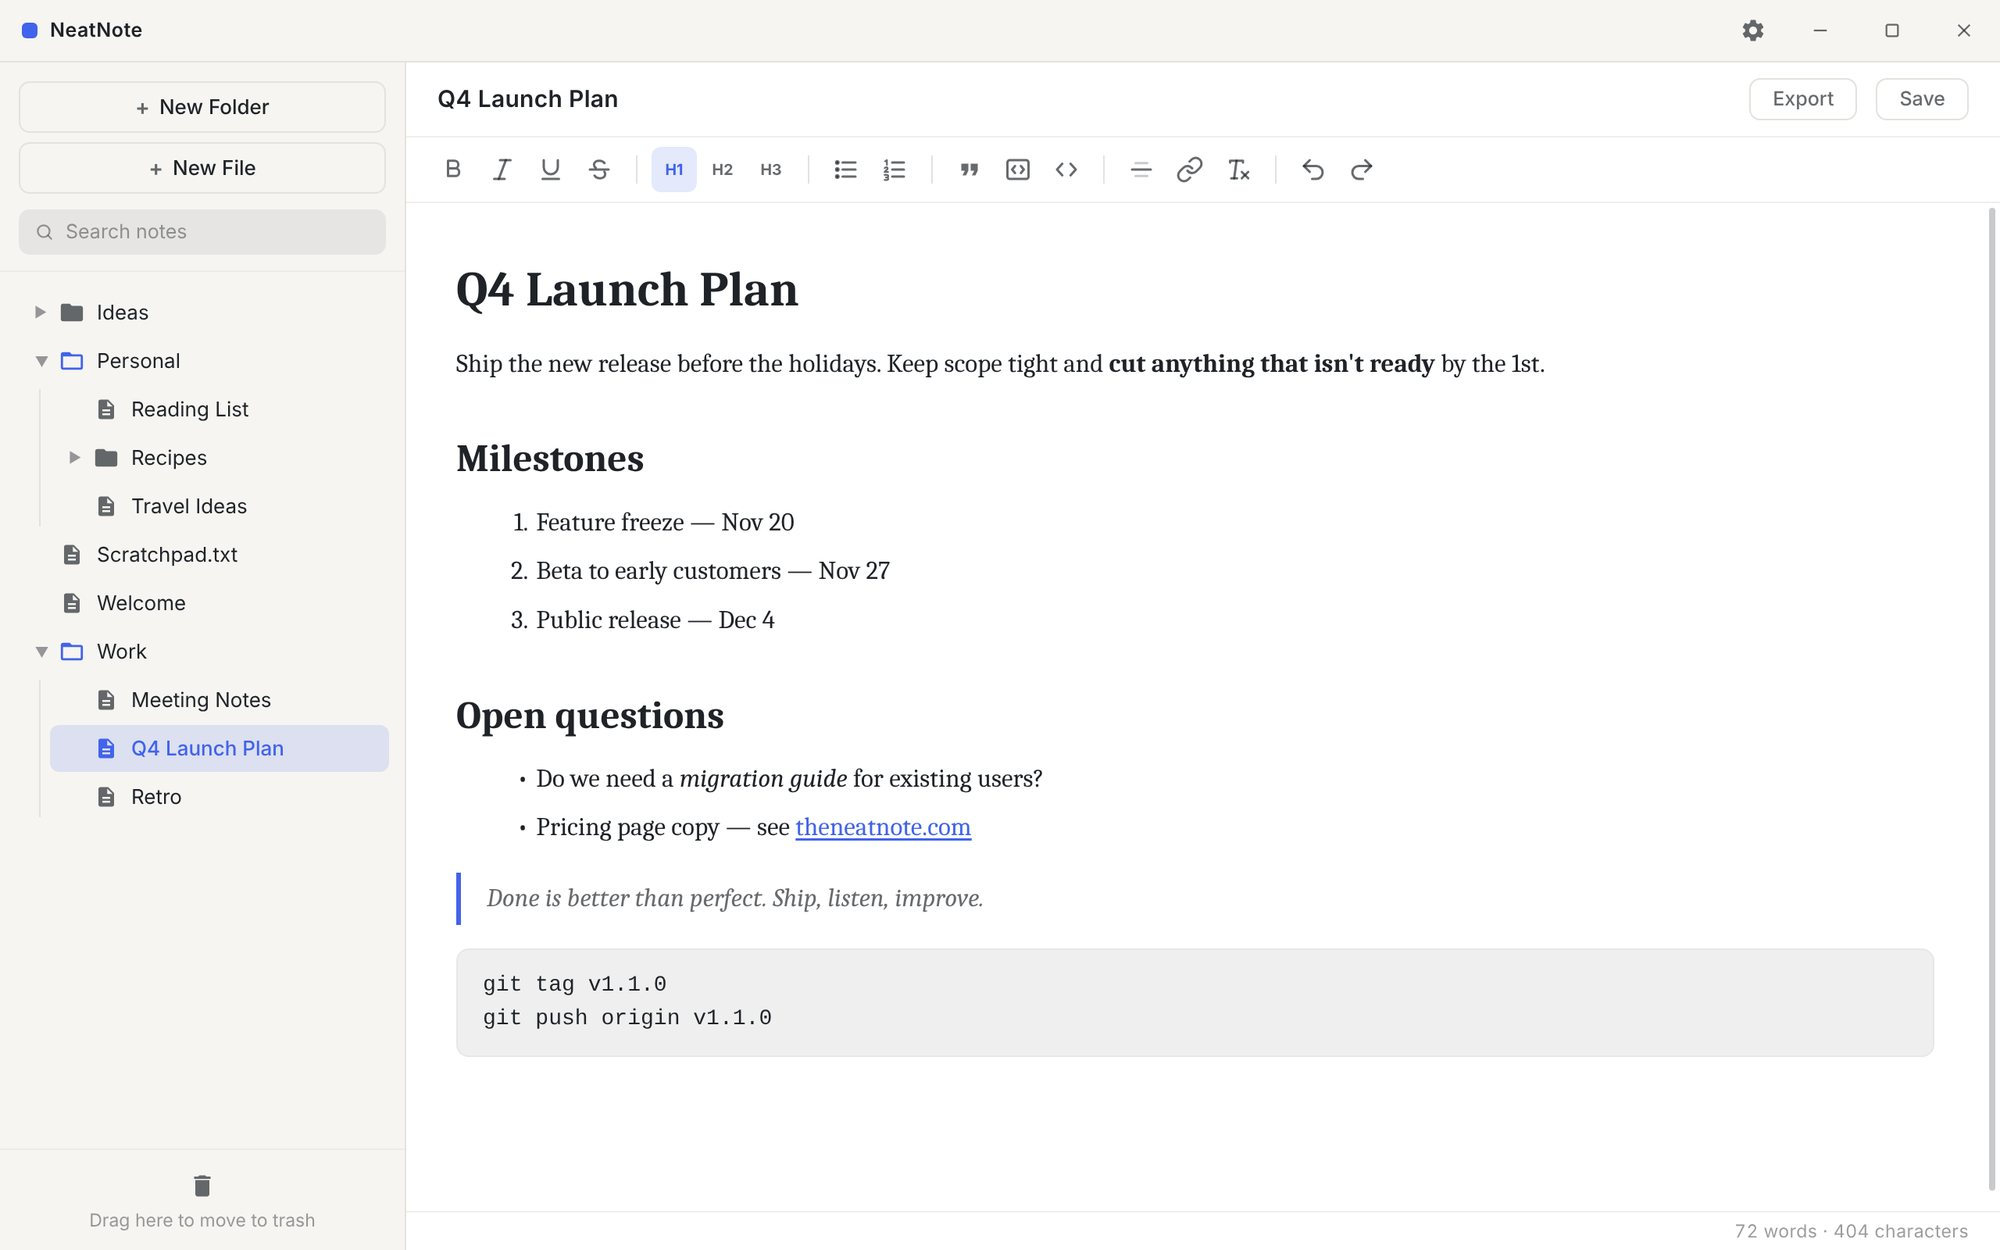
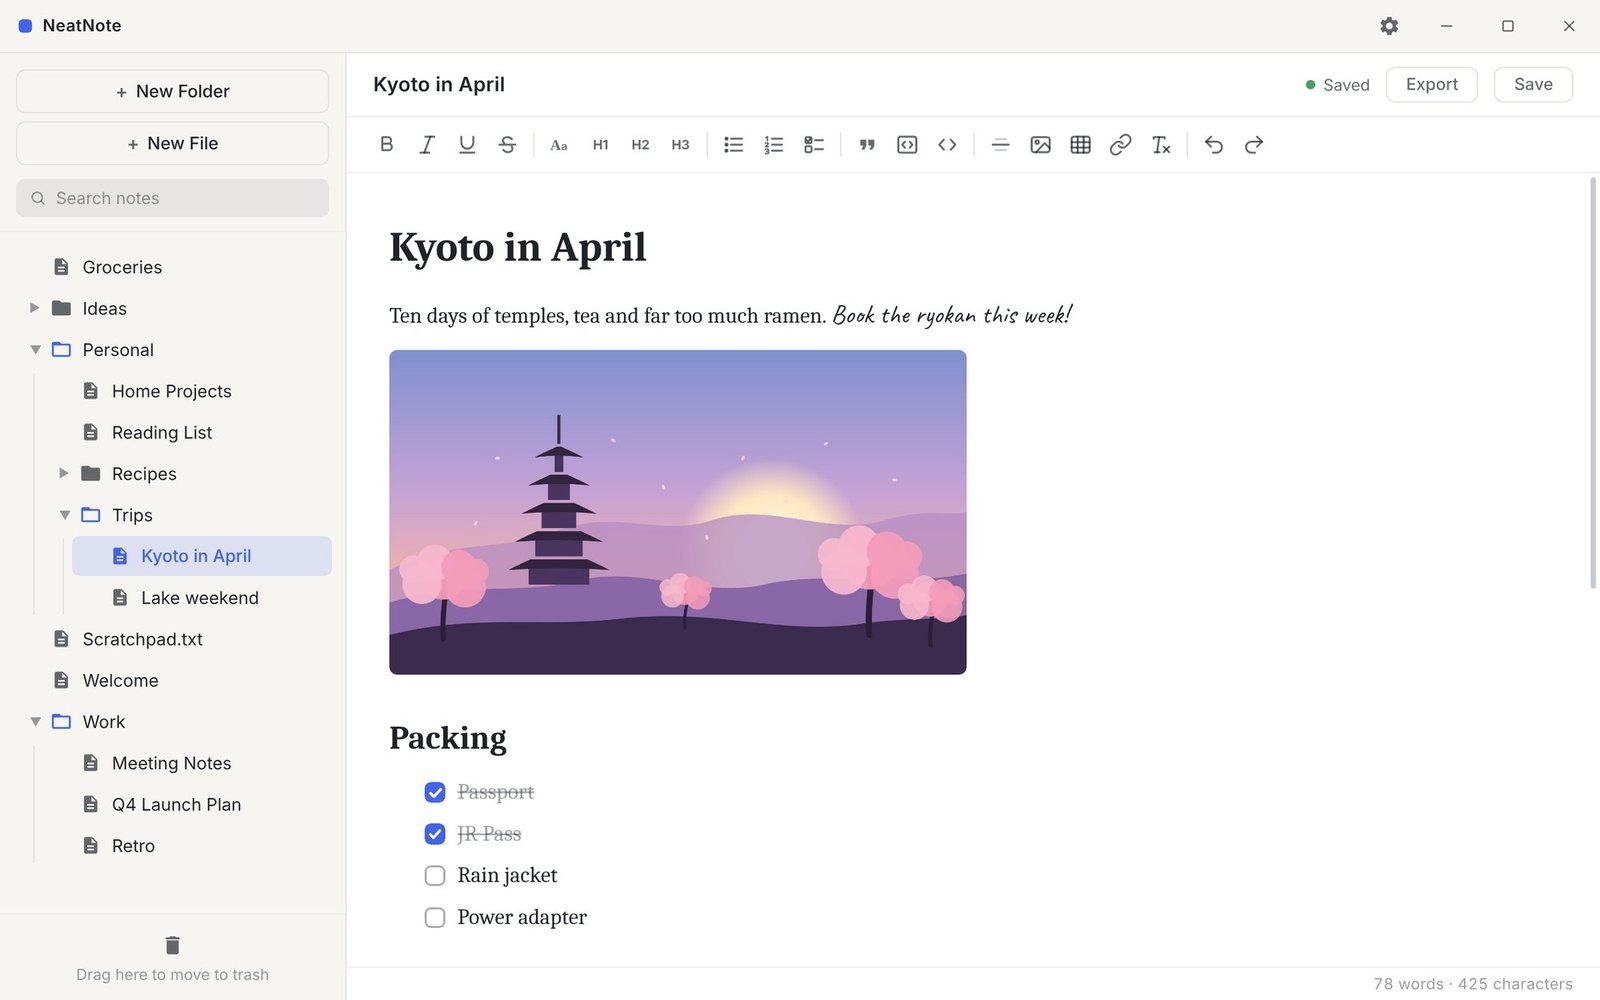
README: new screenshots — six features in six themes

diff --git a/README.md b/README.md
@@ -14,7 +14,7 @@
 NeatNote sits between a bare text editor and an all-in-one workspace: folders, clean formatting and full-text search, without accounts, sync services or subscriptions. Your notes are ordinary files on your own computer.
 
 <p align="center">
-  <img src="docs/screenshots/editor-light.jpg" alt="NeatNote showing a formatted note with headings, lists and a code block, with nested folders in the sidebar" width="900">
+  <img src="docs/screenshots/editor-light.jpg" alt="NeatNote showing a trip plan with a picture, a handwritten-style note and a packing checklist, with nested folders in the sidebar" width="900">
 </p>
 
 ## Features
@@ -37,16 +37,16 @@ NeatNote sits between a bare text editor and an all-in-one workspace: folders, c
 
 <table>
   <tr>
-    <td width="50%"><img src="docs/screenshots/search.jpg" alt="Full-text search listing matching notes with the matching words highlighted"><p align="center"><sub>Search inside every note</sub></p></td>
-    <td width="50%"><img src="docs/screenshots/organize.jpg" alt="Nested folders in the sidebar with the right-click menu open"><p align="center"><sub>Nested folders and right-click menus</sub></p></td>
+    <td width="50%"><img src="docs/screenshots/formatting.jpg" alt="A launch plan with headings, bold text, a numbered list, inline code, a code block and a quote"><p align="center"><sub>Headings, lists and code blocks · Dark theme</sub></p></td>
+    <td width="50%"><img src="docs/screenshots/pictures.jpg" alt="A weekend trip note with a picture of a lake and a packing checklist"><p align="center"><sub>Pictures and checklists · Paper theme</sub></p></td>
   </tr>
   <tr>
-    <td width="50%"><img src="docs/screenshots/editor-dark.jpg" alt="NeatNote in the Dark theme"><p align="center"><sub>Dark</sub></p></td>
-    <td width="50%"><img src="docs/screenshots/editor-paper.jpg" alt="NeatNote in the Paper theme"><p align="center"><sub>Paper</sub></p></td>
+    <td width="50%"><img src="docs/screenshots/tables.jpg" alt="A reading list with a quote and a table of books, authors and status"><p align="center"><sub>Tables and quotes · Sand theme</sub></p></td>
+    <td width="50%"><img src="docs/screenshots/search.jpg" alt="Full-text search for April listing three notes with the matching words highlighted"><p align="center"><sub>Search inside every note · Ocean theme</sub></p></td>
   </tr>
   <tr>
-    <td width="50%"><img src="docs/screenshots/editor-moss.jpg" alt="NeatNote in the Moss theme"><p align="center"><sub>Moss</sub></p></td>
-    <td width="50%"><img src="docs/screenshots/editor-dusk.jpg" alt="NeatNote in the Dusk theme"><p align="center"><sub>Dusk</sub></p></td>
+    <td width="50%"><img src="docs/screenshots/organize.jpg" alt="Nested folders in the sidebar with the right-click menu open on a folder"><p align="center"><sub>Nested folders and right-click menus · Slate theme</sub></p></td>
+    <td width="50%"><img src="docs/screenshots/fonts.jpg" alt="A gift ideas note in several fonts and sizes, with the font and size menu open"><p align="center"><sub>Fonts and sizes for any text · Dusk theme</sub></p></td>
   </tr>
 </table>
 
